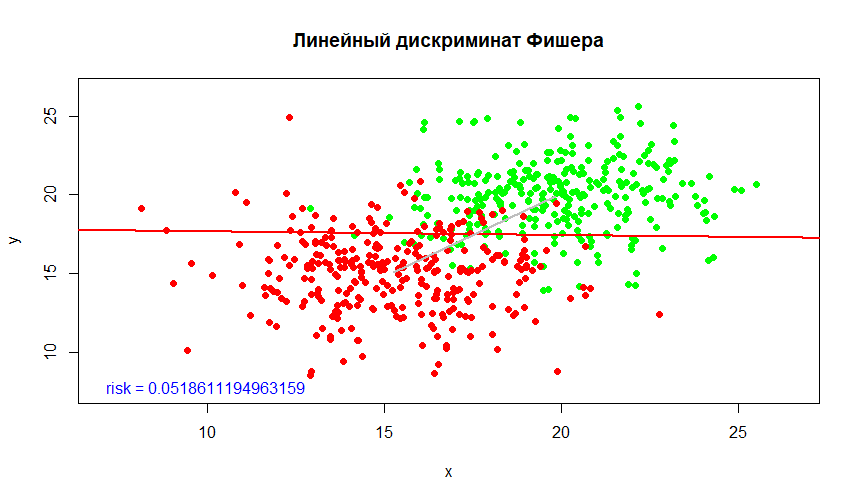
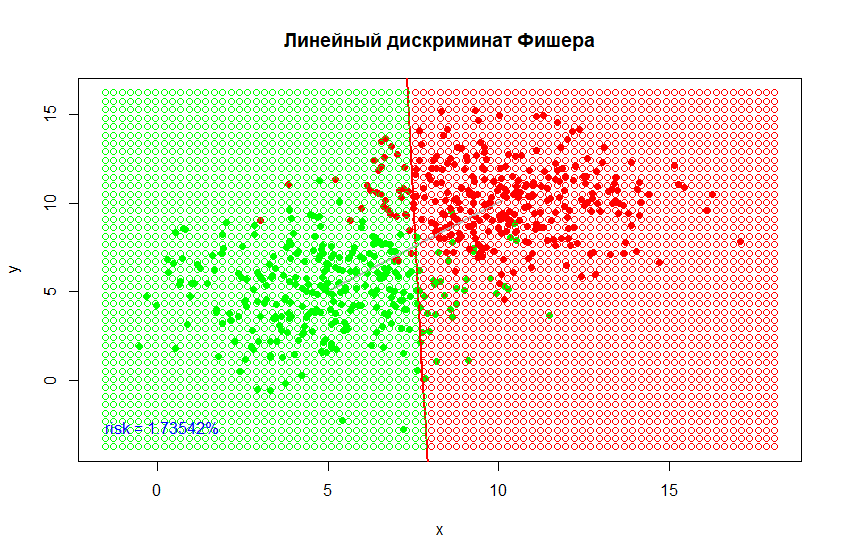
ADALINE upd

diff --git a/linear/README.md b/linear/README.md
@@ -97,12 +97,44 @@ adaUpd <- function(xi, yi, w, eta) {
   return(nextW)
 }
 
+getADALINEClassificator <- function(dat)
+{
+  resAda <- stgrad(dat, loss = adaLoss, upd = adaUpd)
+  drawLine(resAda, lwd = 2, col = 'red', xmin = plotxmin, xmax = plotxmax)
+  getValue <- function(x) {
+    sigmoid <- function(z) {
+      return (1 / (1 + exp(-z)))
+    }
+    return ( sigmoid(c(crossprod(resAda, c(x[1], x[2], -1))) * -1) - sigmoid(c(crossprod(resAda, c(x[1], x[2], -1))) * 1) )
+  }
+  
+  solvingFunc <- function(X)
+  {
+    pp <- getValue(X)
+    if (pp > 0) 
+    {
+      return(1)
+    }
+    else 
+    {
+      return(2)
+    }
+  }
+  return(solvingFunc)
+}
+adalineClassificator <- getADALINEClassificator(dat)
+## возвращае номер класса
+classnum <- adalineClassificator(X)
 ```
 
 
 ### Визуализация гиперплоскости
 
 ![](./adaline/curve.png)
+
+### Карта класификации
+
+![](./adaline/classificationMap.png)
 
 ## Правило Хебба
 
